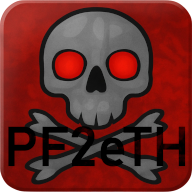
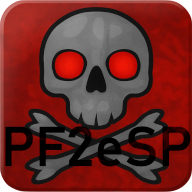
Renamed
Changed art and pointer to reflect this a the PF2e Suit Portal (PF2eSP)

diff --git a/src/App.tsx b/src/App.tsx
@@ -47,7 +47,7 @@ export function ReturnButton() {
     >
       <span className="dots">&#8942;</span>
       <span className="arrow">&larr;</span>
-      <span className="return-text">Return to Hub</span>
+      <span className="return-text">Return</span>
     </a>
   );
 }

diff --git a/src/App.css b/src/App.css
@@ -260,7 +260,7 @@ form.form-card {
 
 .return-btn:hover,
 .return-btn:focus {
-  width: 11.5em;      /* wide enough for all content */
+  width: 7em;      /* wide enough for all content */
   padding: 0.2em 1em;
 }
 
